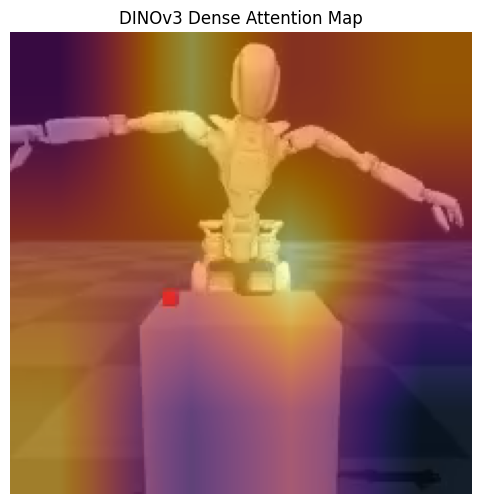
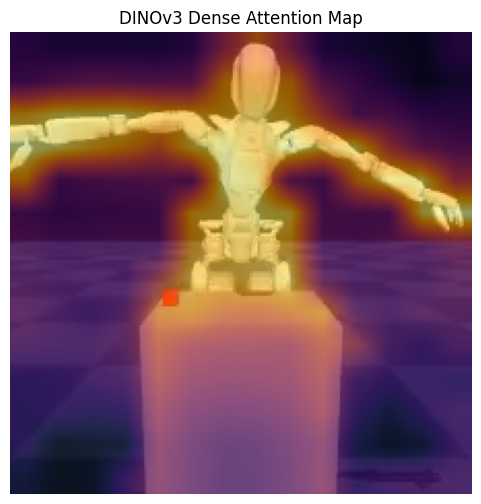
fixed the dino processing of the images in the encoders by dot product between the summary token and the spatial tokens which got everything perfect to complete this PoC

diff --git a/poc/visualize_encoders.py b/poc/visualize_encoders.py
@@ -225,12 +225,19 @@ def run_real_poc(video_path, output_dir, click_coord, text_prompt):
             with torch.no_grad():
                 # Extract sequence of tokens (includes CLS, register tokens, and patches)
                 features = dino.forward_features(frames_tensor[:1].to(device))
-                # Robustly slice only the last 196 tokens representing the 14x14 spatial patches
-                patches = features[0, -196:]  # [196, 384]
-                # Compute L2 feature magnitude of each patch to construct a 14x14 attention grid
-                dino_attn_np = torch.norm(patches, dim=-1).view(14, 14).cpu().numpy()
-                # Invert the values to map the highly-salient foreground features to yellow and background to purple
-                dino_attn_np = -dino_attn_np
+
+                # Extract CLS token [384] and spatial patch tokens [196, 384]
+                cls_token = features[0, 0]
+                patches = features[0, -196:]
+
+                # Normalize for cosine similarity
+                cls_token = cls_token / (cls_token.norm(dim=-1, keepdim=True) + 1e-8)
+                patches = patches / (patches.norm(dim=-1, keepdim=True) + 1e-8)
+
+                # Compute similarity of each patch to the global CLS token
+                dino_attn_np = (
+                    torch.matmul(patches, cls_token.T).view(14, 14).cpu().numpy()
+                )
                 dino_attn_np = (dino_attn_np - dino_attn_np.min()) / (
                     dino_attn_np.max() - dino_attn_np.min() + 1e-8
                 )
